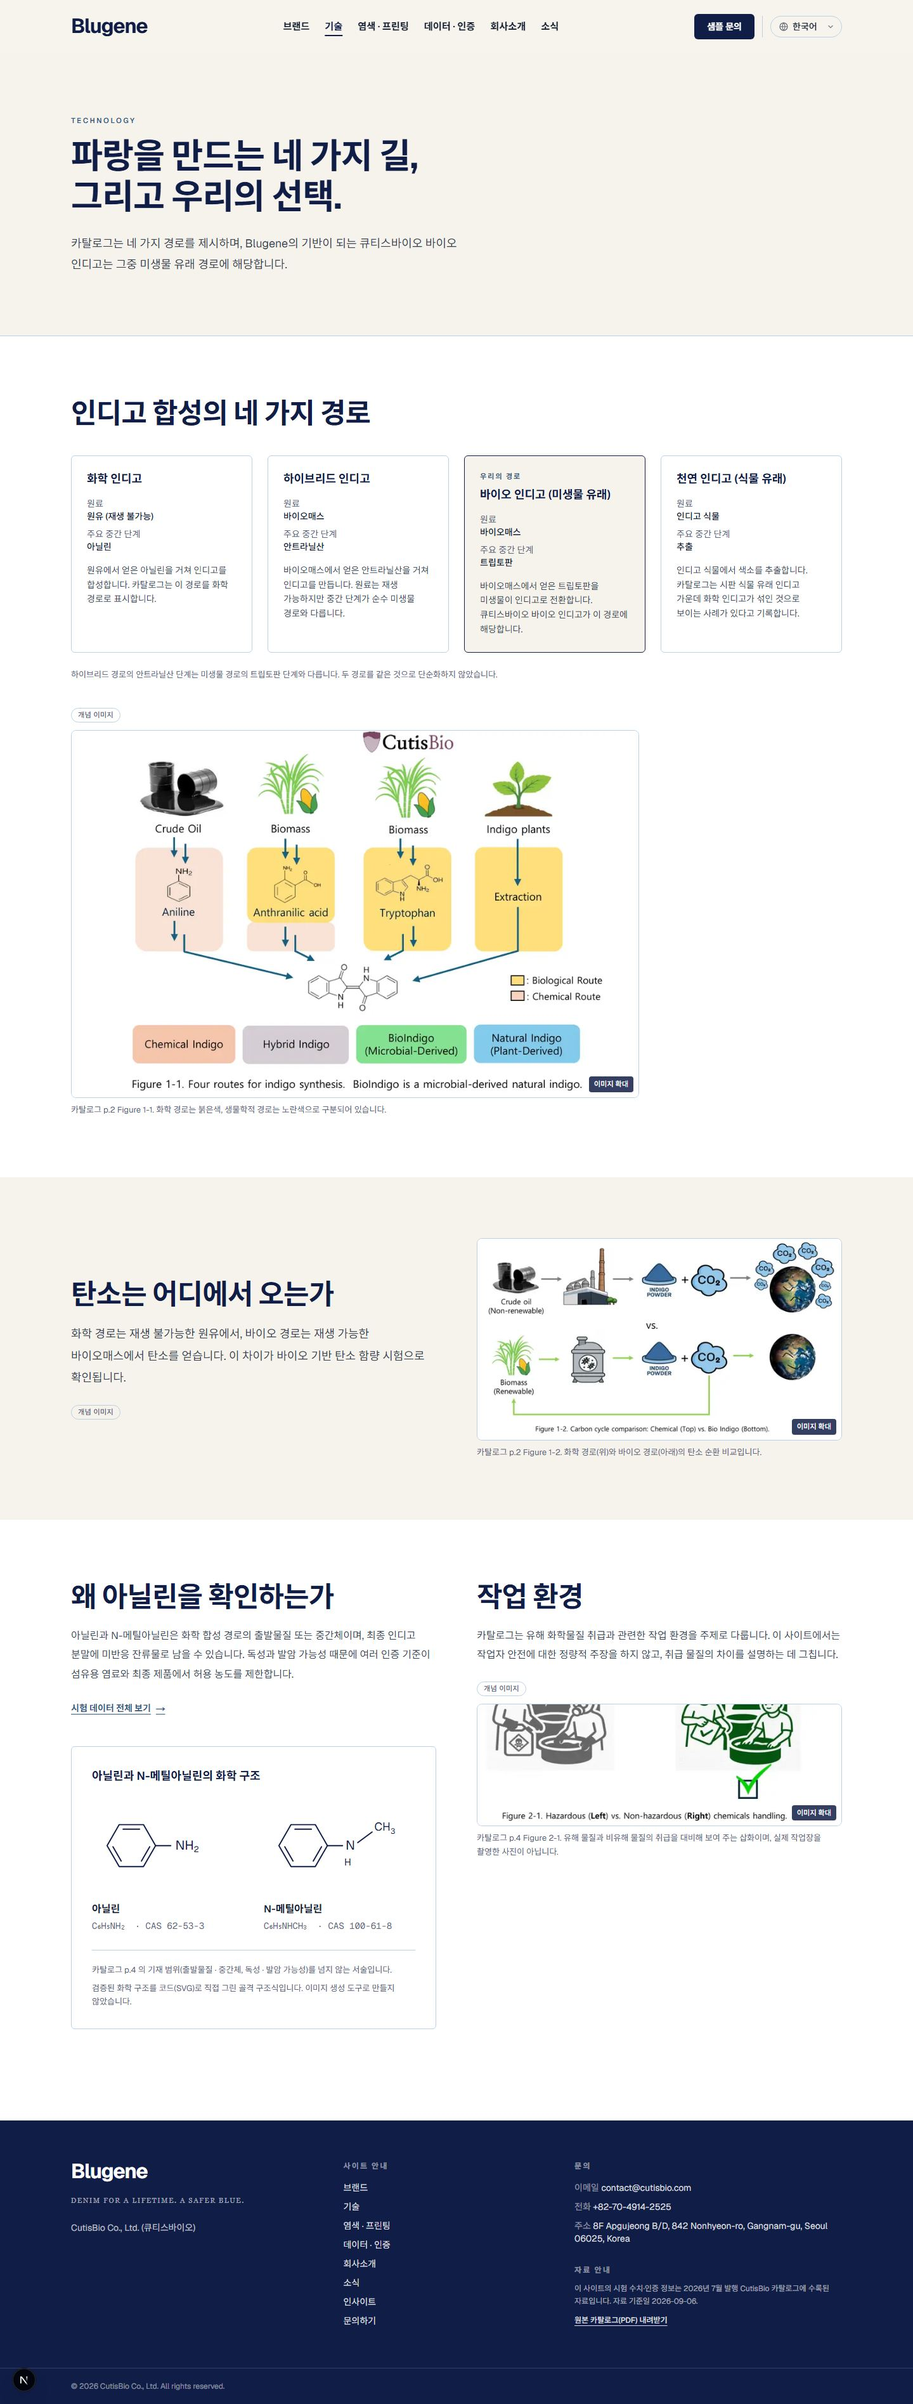
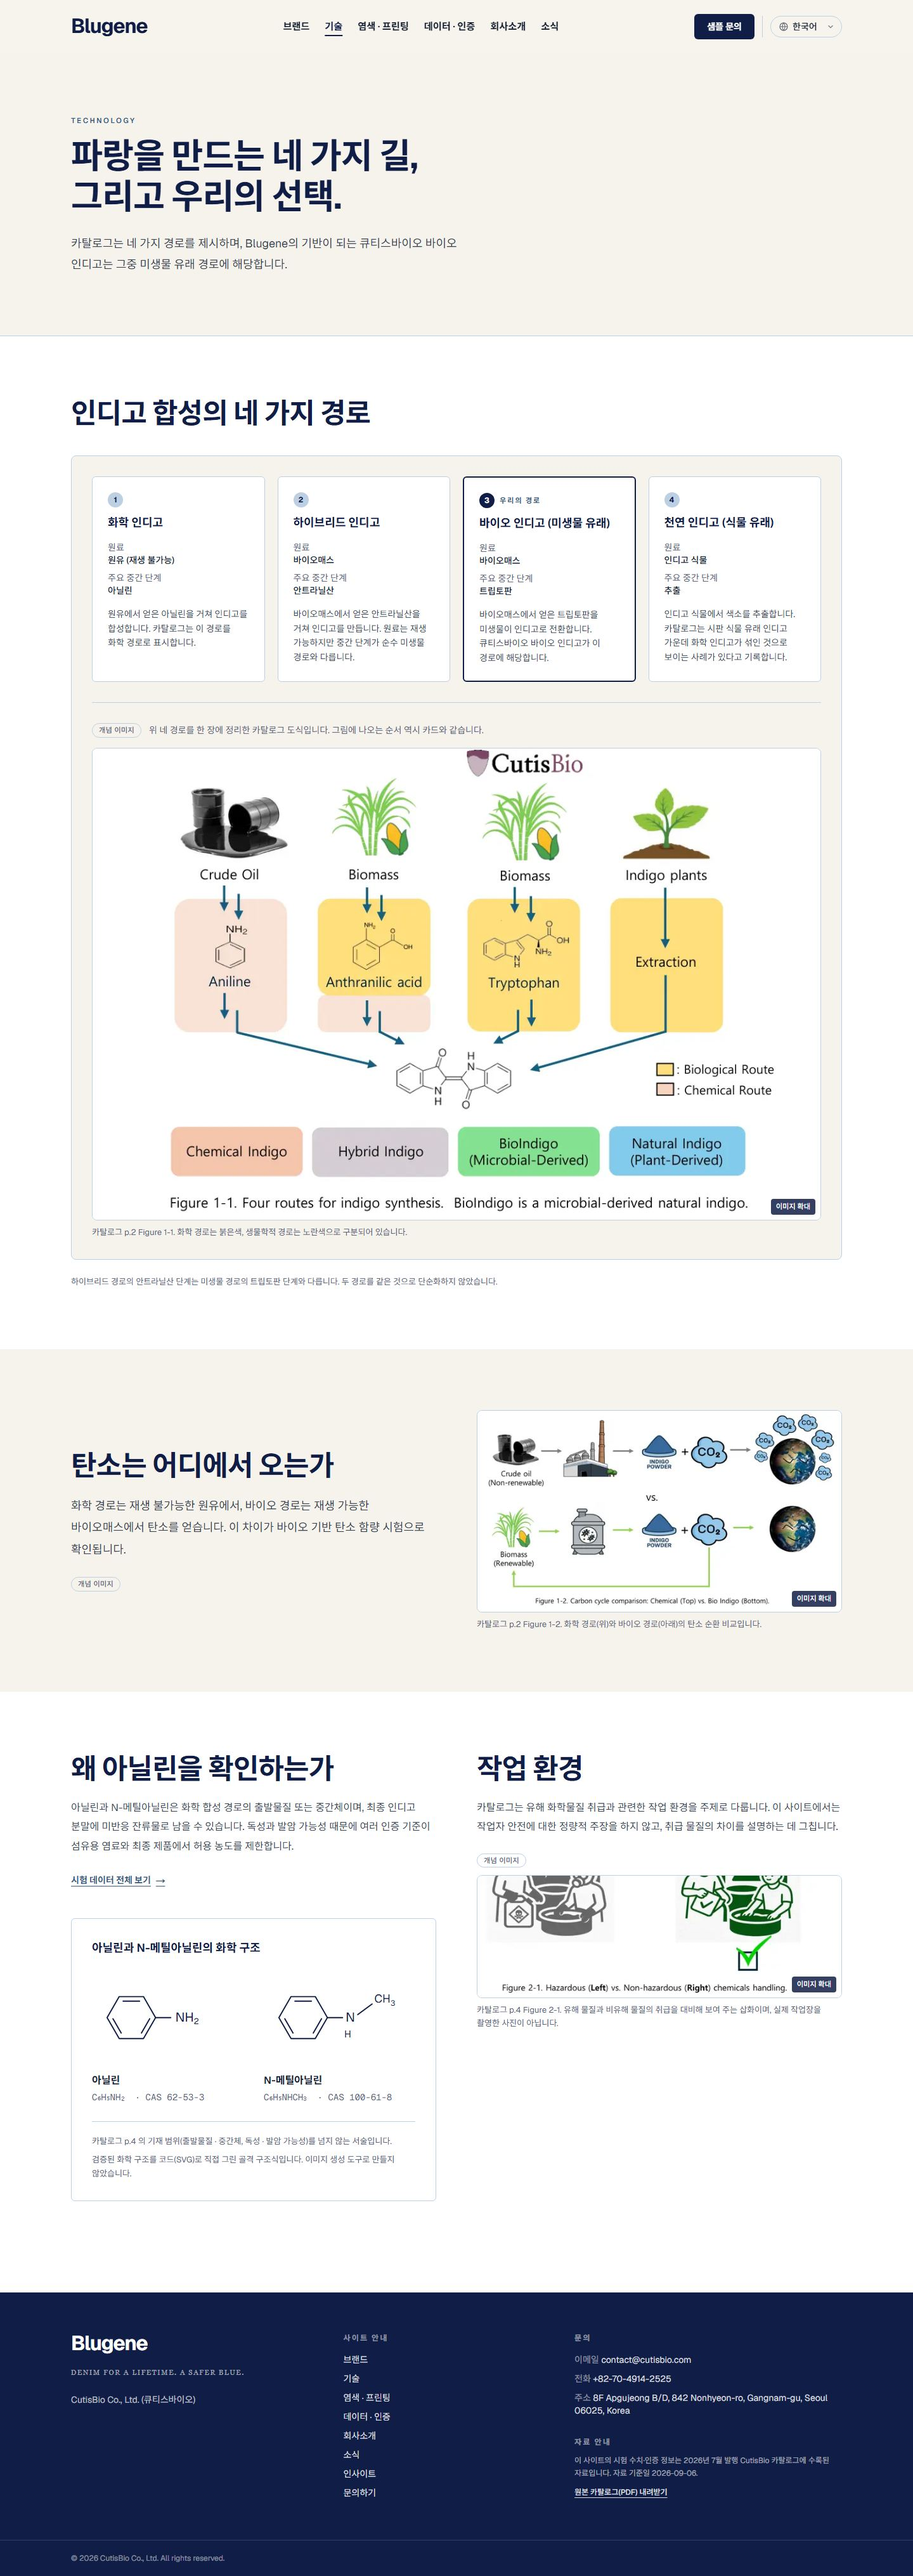
feat(technology): 네 가지 경로의 글과 그림을 한 덩어리로 합친다
같은 내용을 글과 그림이 각각 설명하고 있었는데 서로 다른 자료처럼 보였다. 카드
격자는 1216px, 도식은 895px 로 폭이 달랐고 그 사이에 주석까지 끼어 있었다.

- 카드와 도식을 테두리 있는 상자 하나에 넣고, 도식을 카드와 같은 폭으로 바로 아래
  붙였다. 그 사이는 가로선 하나로만 나눈다.
- 카드에 1 · 2 · 3 · 4 번호를 붙였다. 카드 순서가 도식의 왼쪽부터와 같아서(화학 ·
  하이브리드 · 미생물 · 식물) 어느 카드가 어느 줄기인지 눈으로 짚을 수 있다.
  순서 자체가 뜻을 가지므로 <div> 를 <ol> 로 바꿨고, 번호는 목록이 이미 알려 주는
  정보라 보조기기에는 읽히지 않게 했다.
- 상자가 아이보리색이 되면서 '우리의 경로' 카드의 배경색 강조가 묻히므로 두꺼운
  남색 테두리로 바꿨다. 색만으로 구분되지 않도록 '우리의 경로' 글자는 그대로 둔다.
- 두 경로를 같은 것으로 단순화하지 않았다는 주석(routesNote)은 상자 뒤로 뺐다.
  글과 그림 사이를 가르던 것이 이 주석이었다.
- 새 문구 `routesFigureBridge` 로 아래 그림이 위 네 경로를 한 장에 그린 것임을 밝힌다.

카탈로그 도식은 그대로 쓴다. 네 줄기를 카드와 정확히 맞추려면 그림을 1.27배 확대해
양옆을 잘라야 하는데, 그러면 화학 · 생물 경로 색을 설명하는 범례가 잘려 나간다.

번역: 기계번역이 `순서도` 를 `순서 + 도(조사)` 가 아니라 `순서도(flowchart)` 로 읽어
영어가 `flowchart cards` 라는 없는 물건을 만들었고, 중국어 `流程卡` · 벵골어
`সিকোয়েন্স কার্ড` 가 그것을 그대로 받았다. 에이전트 10개로 언어마다 교체안을 만들고
반증까지 붙여 5개 언어를 모두 고쳤다. 각 언어가 이미 쓰던 표기로 되돌린 것이다 —
en `catalog`→`catalogue` · `paths`→`routes`, ja `パス`→`経路`, zh `目录`→`产品目录` ·
`图表`→`示意图` · `四个`→`四条`, bn `ডায়াগ্রাম`→`চিত্র`, tr `diyagram`→`şema`.
한국어 원문의 `순서도` 도 `순서 역시` 로 바꿔 모호함 자체를 없앴고, 같은 오독이
되풀이되지 않게 용어집에 규칙을 남겼다.

검증: typecheck · lint · check:blugene · build(66면) 통과. 6개 언어 빌드 결과물에서
새 구조 확인. 1440px · 390px 가로 넘침 없음. 캡처 1장 갱신.

diff --git a/src/app/[locale]/technology/page.tsx b/src/app/[locale]/technology/page.tsx
@@ -1,11 +1,11 @@
-import type { Metadata } from 'next';
-import { getTranslations, setRequestLocale } from 'next-intl/server';
-import { Link } from '@/i18n/routing';
-import SectionHeading from '@/components/blugene/SectionHeading';
-import SourceNote, { AssetKind } from '@/components/blugene/SourceNote';
-import ZoomableImage from '@/components/blugene/ZoomableImage';
-import AnilineStructures from '@/components/blugene/AnilineStructures';
-import { LOCALES, buildPageMetadata } from '@/data/blugene/site';
+import type { Metadata } from "next";
+import { getTranslations, setRequestLocale } from "next-intl/server";
+import { Link } from "@/i18n/routing";
+import SectionHeading from "@/components/blugene/SectionHeading";
+import SourceNote, { AssetKind } from "@/components/blugene/SourceNote";
+import ZoomableImage from "@/components/blugene/ZoomableImage";
+import AnilineStructures from "@/components/blugene/AnilineStructures";
+import { LOCALES, buildPageMetadata } from "@/data/blugene/site";
 
 export function generateStaticParams() {
   return LOCALES.map((locale) => ({ locale }));
@@ -17,16 +17,21 @@ export async function generateMetadata({
   params: Promise<{ locale: string }>;
 }): Promise<Metadata> {
   const { locale } = await params;
-  const t = await getTranslations({ locale, namespace: 'Technology' });
+  const t = await getTranslations({ locale, namespace: "Technology" });
   return buildPageMetadata({
     locale,
-    path: '/technology',
-    title: t('metaTitle'),
-    description: t('metaDescription'),
+    path: "/technology",
+    title: t("metaTitle"),
+    description: t("metaDescription"),
   });
 }
 
-type Route = { name: string; feedstock: string; intermediate: string; text: string };
+type Route = {
+  name: string;
+  feedstock: string;
+  intermediate: string;
+  text: string;
+};
 
 export default async function TechnologyPage({
   params,
@@ -36,9 +41,9 @@ export default async function TechnologyPage({
   const { locale } = await params;
   setRequestLocale(locale);
 
-  const t = await getTranslations({ locale, namespace: 'Technology' });
-  const tCommon = await getTranslations({ locale, namespace: 'Common' });
-  const routes = t.raw('routes') as Route[];
+  const t = await getTranslations({ locale, namespace: "Technology" });
+  const tCommon = await getTranslations({ locale, namespace: "Common" });
+  const routes = t.raw("routes") as Route[];
 
   return (
     <>
@@ -46,78 +51,111 @@ export default async function TechnologyPage({
         <div className="mx-auto max-w-[1280px] px-4 py-16 sm:px-6 sm:py-20 lg:px-8 lg:py-24">
           <SectionHeading
             headingLevel="h1"
-            eyebrow={t('heroEyebrow')}
-            title={t('heroTitle')}
-            body={t('heroBody')}
+            eyebrow={t("heroEyebrow")}
+            title={t("heroTitle")}
+            body={t("heroBody")}
             size="hero"
           />
         </div>
       </section>
 
-      {/* 네 가지 경로 */}
+      {/* 네 가지 경로 — 글과 그림이 같은 내용을 두 방식으로 설명하므로 한 덩어리로 묶는다.
+          예전에는 네 카드(1216px)와 도식(895px)이 폭도 다르고 그 사이에 주석까지 끼어 있어
+          서로 다른 자료처럼 보였다. 도식을 카드와 같은 폭으로 바로 아래 붙이고, 주석은
+          그림 뒤로 뺐다. */}
       <section className="w-full bg-white">
         <div className="mx-auto max-w-[1280px] px-4 py-16 sm:px-6 sm:py-20 lg:px-8 lg:py-24">
-          <SectionHeading title={t('routesTitle')} size="lg" />
+          <SectionHeading title={t("routesTitle")} size="lg" />
 
-          <div className="mt-10 grid gap-6 md:grid-cols-2 xl:grid-cols-4">
-            {routes.map((route, i) => {
-              const isBio = i === 2;
-              return (
-                <article
-                  key={route.name}
-                  className={`rounded-md border p-6 ${
-                    isBio
-                      ? 'border-[var(--color-indigo-deep)] bg-[var(--color-ivory)]'
-                      : 'border-[color:var(--color-washed)] bg-white'
-                  }`}
-                >
-                  {/* 어느 것이 우리 경로인지가 테두리 색으로만 표시돼, 색을 구분하지 못하면
-                      네 카드가 같아 보였다. 의미를 글자가 담게 한다. */}
-                  {isBio && (
-                    <p className="mb-2 text-[0.7rem] font-semibold tracking-[0.16em] text-[var(--color-denim)] uppercase">
-                      {t('routeOursLabel')}
+          <div className="mt-10 rounded-lg border border-[color:var(--color-washed)] bg-[var(--color-ivory)] p-4 sm:p-6 lg:p-8">
+            {/* 카드 순서는 도식의 왼쪽부터와 같다(화학 · 하이브리드 · 미생물 · 식물).
+                순서에 뜻이 있으므로 목록으로 둔다. */}
+            <ol className="grid list-none gap-5 p-0 md:grid-cols-2 xl:grid-cols-4">
+              {routes.map((route, i) => {
+                const isBio = i === 2;
+                return (
+                  <li
+                    key={route.name}
+                    className={`rounded-md border bg-white p-6 ${
+                      isBio
+                        ? "border-2 border-[var(--color-indigo-deep)]"
+                        : "border-[color:var(--color-washed)]"
+                    }`}
+                  >
+                    <div className="mb-3 flex items-center gap-2">
+                      {/* 도식의 몇 번째 줄기인지 눈으로 짚어 주는 번호다. 순서는 목록
+                          자체가 이미 알려 주므로 보조기기에는 읽히지 않게 한다. */}
+                      <span
+                        aria-hidden="true"
+                        className={`inline-flex h-6 w-6 shrink-0 items-center justify-center rounded-full text-xs font-bold ${
+                          isBio
+                            ? "bg-[var(--color-indigo-deep)] text-white"
+                            : "bg-[var(--color-washed)] text-[var(--color-indigo-deep)]"
+                        }`}
+                      >
+                        {i + 1}
+                      </span>
+                      {/* 어느 것이 우리 경로인지가 테두리 색으로만 표시되면 색을 구분하지
+                          못하는 사람에게는 네 카드가 같아 보인다. 의미를 글자가 담게 한다. */}
+                      {isBio && (
+                        <p className="text-[0.7rem] font-semibold tracking-[0.16em] text-[var(--color-denim)] uppercase">
+                          {t("routeOursLabel")}
+                        </p>
+                      )}
+                    </div>
+                    <h3 className="text-lg leading-snug font-semibold break-keep text-[var(--color-indigo-deep)]">
+                      {route.name}
+                    </h3>
+                    <dl className="mt-4 space-y-2 text-sm">
+                      <div>
+                        <dt className="text-[var(--color-slate-muted)]">
+                          {t("routeFeedstockLabel")}
+                        </dt>
+                        <dd className="font-medium break-keep text-[var(--color-ink)]">
+                          {route.feedstock}
+                        </dd>
+                      </div>
+                      <div>
+                        <dt className="text-[var(--color-slate-muted)]">
+                          {t("routeIntermediateLabel")}
+                        </dt>
+                        <dd className="font-medium break-keep text-[var(--color-ink)]">
+                          {route.intermediate}
+                        </dd>
+                      </div>
+                    </dl>
+                    <p className="mt-4 text-sm leading-relaxed break-keep text-[var(--color-ink)]/85">
+                      {route.text}
                     </p>
-                  )}
-                  <h3 className="text-lg leading-snug font-semibold break-keep text-[var(--color-indigo-deep)]">
-                    {route.name}
-                  </h3>
-                  <dl className="mt-4 space-y-2 text-sm">
-                    <div>
-                      <dt className="text-[var(--color-slate-muted)]">{t('routeFeedstockLabel')}</dt>
-                      <dd className="font-medium break-keep text-[var(--color-ink)]">{route.feedstock}</dd>
-                    </div>
-                    <div>
-                      <dt className="text-[var(--color-slate-muted)]">{t('routeIntermediateLabel')}</dt>
-                      <dd className="font-medium break-keep text-[var(--color-ink)]">
-                        {route.intermediate}
-                      </dd>
-                    </div>
-                  </dl>
-                  <p className="mt-4 text-sm leading-relaxed break-keep text-[var(--color-ink)]/85">
-                    {route.text}
-                  </p>
-                </article>
-              );
-            })}
-          </div>
+                  </li>
+                );
+              })}
+            </ol>
 
-          <SourceNote className="mt-6 max-w-3xl">{t('routesNote')}</SourceNote>
-
-          <div className="mt-10 max-w-4xl">
-            <div className="mb-3">
-              <AssetKind>{tCommon('conceptImage')}</AssetKind>
+            {/* 같은 상자 안에서 글 다음에 그림이 온다는 것을 선 하나로 알린다 */}
+            <div className="mt-8 border-t border-[color:var(--color-washed)] pt-8">
+              <div className="flex flex-wrap items-center gap-x-3 gap-y-2">
+                <AssetKind>{tCommon("conceptImage")}</AssetKind>
+                <p className="text-sm break-keep text-[var(--color-slate-muted)]">
+                  {t("routesFigureBridge")}
+                </p>
+              </div>
+              <div className="mt-4">
+                <ZoomableImage
+                  src="/blugene/technology/four-production-routes.png"
+                  alt={t("routesAlt")}
+                  width={1191}
+                  height={771}
+                  sizes="(max-width: 1280px) 92vw, 1160px"
+                  openLabel={tCommon("openImage")}
+                  closeLabel={tCommon("close")}
+                  caption={t("routesCaption")}
+                />
+              </div>
             </div>
-            <ZoomableImage
-              src="/blugene/technology/four-production-routes.png"
-              alt={t('routesAlt')}
-              width={1191}
-              height={771}
-              sizes="(max-width: 1024px) 92vw, 900px"
-              openLabel={tCommon('openImage')}
-              closeLabel={tCommon('close')}
-              caption={t('routesCaption')}
-            />
           </div>
+
+          <SourceNote className="mt-6 max-w-3xl">{t("routesNote")}</SourceNote>
         </div>
       </section>
 
@@ -125,23 +163,23 @@ export default async function TechnologyPage({
       <section className="w-full bg-[var(--color-ivory)]">
         <div className="mx-auto grid max-w-[1280px] gap-12 px-4 py-16 sm:px-6 sm:py-20 lg:grid-cols-2 lg:items-center lg:gap-16 lg:px-8 lg:py-24">
           <div>
-            <SectionHeading title={t('carbonTitle')} size="lg" />
+            <SectionHeading title={t("carbonTitle")} size="lg" />
             <p className="mt-5 text-base leading-[1.9] break-keep text-[var(--color-ink)]/85 sm:text-lg">
-              {t('carbonBody')}
+              {t("carbonBody")}
             </p>
             <div className="mt-6">
-              <AssetKind>{tCommon('conceptImage')}</AssetKind>
+              <AssetKind>{tCommon("conceptImage")}</AssetKind>
             </div>
           </div>
           <ZoomableImage
             src="/blugene/technology/carbon-pathways.png"
-            alt={t('carbonAlt')}
+            alt={t("carbonAlt")}
             width={1230}
             height={678}
             sizes="(max-width: 1024px) 92vw, 600px"
-            openLabel={tCommon('openImage')}
-            closeLabel={tCommon('close')}
-            caption={t('carbonCaption')}
+            openLabel={tCommon("openImage")}
+            closeLabel={tCommon("close")}
+            caption={t("carbonCaption")}
           />
         </div>
       </section>
@@ -156,15 +194,15 @@ export default async function TechnologyPage({
       <section className="w-full bg-white">
         <div className="mx-auto grid max-w-[1280px] gap-12 px-4 py-16 sm:px-6 sm:py-20 lg:grid-cols-2 lg:gap-16 lg:px-8 lg:py-24">
           <div>
-            <SectionHeading title={t('impurityTitle')} size="lg" />
+            <SectionHeading title={t("impurityTitle")} size="lg" />
             <p className="mt-5 text-base leading-[1.9] break-keep text-[var(--color-ink)]/85">
-              {t('impurityBody')}
+              {t("impurityBody")}
             </p>
             <Link
               href="/data-certifications"
               className="mt-7 inline-flex items-center gap-2 text-sm font-semibold text-[var(--color-denim)] underline underline-offset-4 hover:text-[var(--color-indigo-deep)]"
             >
-              {t('cta')}
+              {t("cta")}
               <span aria-hidden="true">→</span>
             </Link>
             {/*
@@ -175,23 +213,23 @@ export default async function TechnologyPage({
             <AnilineStructures />
           </div>
           <div>
-            <SectionHeading title={t('safetyTitle')} size="lg" />
+            <SectionHeading title={t("safetyTitle")} size="lg" />
             <p className="mt-5 text-base leading-[1.9] break-keep text-[var(--color-ink)]/85">
-              {t('safetyBody')}
+              {t("safetyBody")}
             </p>
             <div className="mt-6">
               <div className="mb-3">
-                <AssetKind>{tCommon('conceptImage')}</AssetKind>
+                <AssetKind>{tCommon("conceptImage")}</AssetKind>
               </div>
               <ZoomableImage
                 src="/blugene/technology/worker-safety.png"
-                alt={t('safetyAlt')}
+                alt={t("safetyAlt")}
                 width={988}
                 height={331}
                 sizes="(max-width: 1024px) 92vw, 560px"
-                openLabel={tCommon('openImage')}
-                closeLabel={tCommon('close')}
-                caption={t('conceptCaptionSafety')}
+                openLabel={tCommon("openImage")}
+                closeLabel={tCommon("close")}
+                caption={t("conceptCaptionSafety")}
               />
             </div>
           </div>
